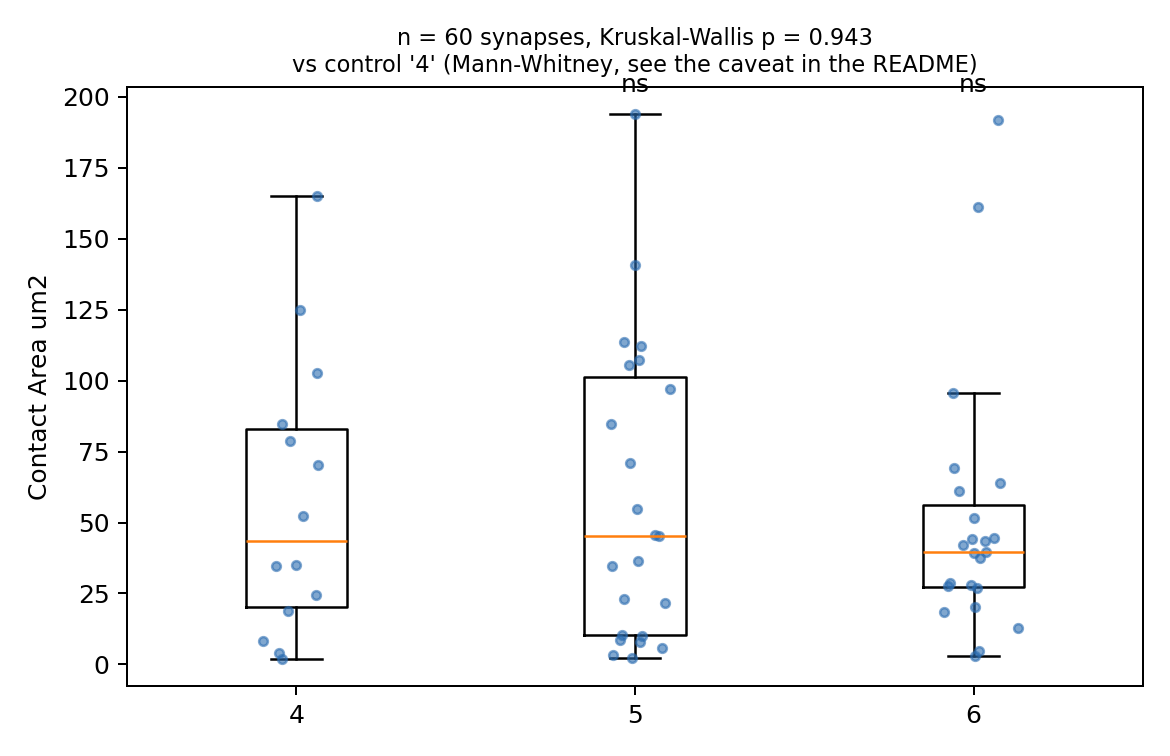
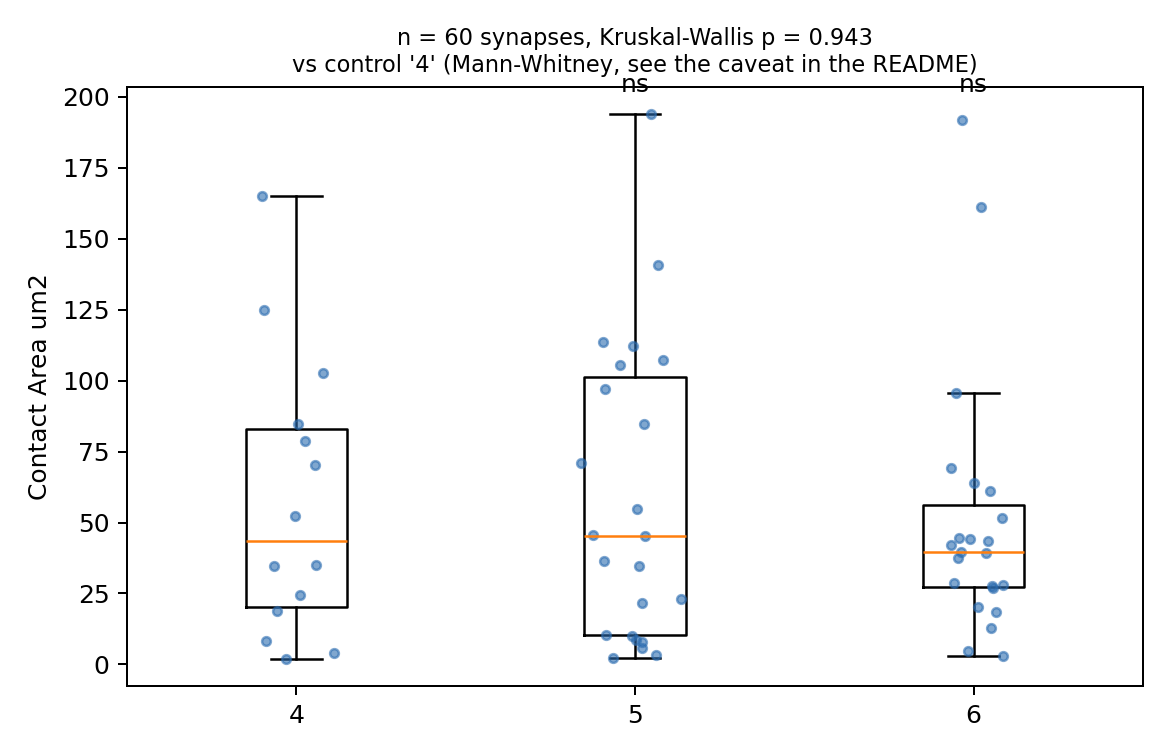
Express the nucleus size cut-off relative to the expected nucleus, and keep it at a noise floor
The cut-off is now a fraction of the volume of a sphere of --nucleus-diameter-um
instead of an absolute 20 um3, so it follows the cell type.

It stays at a floor against single specks (0.075, i.e. 20 um3 for an 8 um
nucleus) rather than becoming a real filter. Dropping everything below 20 % of
the expected volume looked attractive - it halved the spread of nucleus volumes
- but it removed 7 of 60 synapses and raised the largest contact from 194 to
263 um2. Inspecting those objects one by one, they are not debris: some are
nuclei Cellpose drew small, the rest are cells above or below another cell,
overlapping in x and y but five to nine planes apart in z. A cell whose only
seed is dropped is absorbed by its neighbour and their border is then reported
as one large false contact.

README records this, and adds DAPI exposure to what the next acquisition needs.

diff --git a/is_analysis/nuclei.py b/is_analysis/nuclei.py
@@ -9,14 +9,16 @@ Two interchangeable detectors, both returning a 3D label image with one label pe
   seed or gives it several, so the cell it belongs to is merged into its neighbour or cut in two.
   It is kept as the dependency-free fallback.
 
+
 Only the *seeds* matter downstream: the cell body is built from all three channels in
 `segmentation.cell_bodies`, and the nucleus label is used to place and classify the cell. A
 nucleus mask that is a little tight is therefore harmless, a missing or duplicated one is not.
 """
+import math
+
 import numpy as np
 from scipy import ndimage as ndi
 from skimage.filters import threshold_otsu
-from skimage.morphology import remove_small_objects
 from skimage.segmentation import watershed
 
 from .segmentation import ball, smooth
@@ -24,18 +26,40 @@ from .segmentation import ball, smooth
 DIAMETER_UM = 8.0
 SMOOTH_UM = 1.0
 STITCH = 0.25
+MIN_FRACTION = 0.075
 _MODEL = None
 
 
-def segment(dapi, voxel, method="cellpose", min_volume_um3=20.0, min_sep_um=4.0,
+def smallest_kept_um3(diameter_um, fraction):
+    """Volume below which a detected object is thrown away, as a fraction of the volume of a
+    sphere of `diameter_um`, so the cut-off follows the cell type rather than being absolute.
+
+    It defaults to 0.075 - 20 um3 for an 8 um nucleus, a ball of 3.4 um across - which is a floor
+    against single specks of noise and nothing more. A real cut-off does more harm than good on
+    the 2026-06-04 images: a fifth of the detections fall below 0.2 of the expected volume,
+    but checking them one by one they are not debris: some are nuclei Cellpose simply drew a
+    little small, and the rest are cells sitting above or below another cell - their outlines
+    overlap in x and y but they are five to nine planes apart in z, so they are not pieces of
+    one nucleus either. Removing them cost 7 of 60 synapses and *raised* the largest contact
+    from 194 to 263 um2, because a cell whose only seed is gone has no marker left and the
+    watershed hands its body to the neighbour, turning their shared border into a false contact.
+
+    Raise it only for data where small debris really is present, and check the synapse count
+    before and after.
+    """
+    return fraction * math.pi / 6 * diameter_um ** 3
+
+
+def segment(dapi, voxel, method="cellpose", min_fraction=MIN_FRACTION, min_sep_um=4.0,
             diameter_um=DIAMETER_UM, smooth_um=SMOOTH_UM):
     if method == "cellpose":
-        return cellpose_nuclei(dapi, voxel, diameter_um, smooth_um, min_volume_um3)
-    return watershed_nuclei(dapi, voxel, min_volume_um3, min_sep_um)
+        labels = cellpose_nuclei(dapi, voxel, diameter_um, smooth_um)
+    else:
+        labels = watershed_nuclei(dapi, voxel, min_sep_um=min_sep_um)
+    return _renumber(labels, voxel, smallest_kept_um3(diameter_um, min_fraction))
 
 
-def cellpose_nuclei(dapi, voxel, diameter_um=DIAMETER_UM, smooth_um=SMOOTH_UM,
-                    min_volume_um3=20.0, stitch=STITCH):
+def cellpose_nuclei(dapi, voxel, diameter_um=DIAMETER_UM, smooth_um=SMOOTH_UM, stitch=STITCH):
     """Cellpose on a smoothed DAPI stack, 2D per plane, stitched in z.
 
     The raw channel is far too grainy for the model - on these images it finds almost nothing
@@ -48,17 +72,16 @@ def cellpose_nuclei(dapi, voxel, diameter_um=DIAMETER_UM, smooth_um=SMOOTH_UM,
     labels, _, _ = model.eval(smooth(dapi, voxel, smooth_um), channels=[0, 0], z_axis=0,
                               diameter=diameter_um / voxel[2], stitch_threshold=stitch,
                               normalize=True)
-    return _renumber(np.asarray(labels, np.int32), voxel, min_volume_um3)
+    return _renumber(np.asarray(labels, np.int32), voxel)
 
 
-def watershed_nuclei(dapi, voxel, min_volume_um3=20.0, min_sep_um=4.0, sigma_um=0.4):
+def watershed_nuclei(dapi, voxel, min_sep_um=4.0, sigma_um=0.4):
     """Threshold the DAPI channel and split touching nuclei on the distance map."""
     sm = smooth(dapi, voxel, sigma_um)
     mask = ndi.binary_fill_holes(ndi.binary_closing(sm > threshold_otsu(sm), ball(0.5, voxel)))
-    mask = remove_small_objects(mask, int(min_volume_um3 / np.prod(voxel)))
     dist = ndi.distance_transform_edt(mask, sampling=voxel)
     seeds = ndi.label(_peaks(smooth(dist, voxel, min_sep_um / 4), mask, voxel, min_sep_um))[0]
-    return _renumber(watershed(-dist, seeds, mask=mask), voxel, min_volume_um3)
+    return _renumber(watershed(-dist, seeds, mask=mask), voxel)
 
 
 def _cellpose_model():
@@ -83,9 +106,9 @@ def _peaks(dist, mask, voxel, min_sep_um):
         & (dist > 0)
 
 
-def _renumber(labels, voxel, min_volume_um3):
-    """Drop everything below min_volume_um3 and make the remaining labels 1..n."""
-    keep = np.bincount(labels.ravel()) * np.prod(voxel) >= min_volume_um3
+def _renumber(labels, voxel, min_volume_um3=0.0):
+    """Drop anything below min_volume_um3 and make the remaining labels 1..n."""
+    keep = np.bincount(labels.ravel()) * np.prod(voxel) > min_volume_um3
     keep[0] = False
     out = np.zeros(labels.shape, np.int32)
     for new, old in enumerate(np.flatnonzero(keep), start=1):

diff --git a/is_analysis/pipeline.py b/is_analysis/pipeline.py
@@ -30,7 +30,7 @@ def analyse_image(path, out, voxel_override=None, channels=(0, 1, 2), opts=None)
     stack = np.stack([stack[c] for c in channels])
     dapi, gfp, mcherry = stack
 
-    nuclei = nuclei_detection.segment(dapi, voxel, opts["nuclei"], opts["min_nucleus_um3"],
+    nuclei = nuclei_detection.segment(dapi, voxel, opts["nuclei"], opts["min_nucleus_fraction"],
                                       opts["min_separation_um"], opts["nucleus_diameter_um"])
     classes = segmentation.classify(nuclei, gfp, voxel, opts["snr"], opts["gfp_fraction"])
     bodies, cores = segmentation.cell_bodies(nuclei, gfp, mcherry, dapi, voxel, opts["snr"],
@@ -124,7 +124,9 @@ def main(argv=None):
                          "a threshold plus distance watershed, which needs nothing extra")
     ap.add_argument("--nucleus-diameter-um", type=float, default=nuclei_detection.DIAMETER_UM,
                     help="typical nucleus diameter, used by --nuclei cellpose")
-    ap.add_argument("--min-nucleus-um3", type=float, default=20.0, help="smallest accepted nucleus")
+    ap.add_argument("--min-nucleus-fraction", type=float, default=nuclei_detection.MIN_FRACTION,
+                    help="smallest nucleus kept, as a fraction of the volume of a sphere of "
+                         "--nucleus-diameter-um; anything smaller is debris or a fragment")
     ap.add_argument("--min-separation-um", type=float, default=4.0,
                     help="smallest distance between two nuclear centres (--nuclei watershed only);"
                          " raise it if one nucleus is split in two, lower it if two are merged")
@@ -152,7 +154,7 @@ def main(argv=None):
     channels = tuple(int(c) for c in a.channels.split(","))
     voxel = tuple(float(v) for v in a.voxel.split(",")) if a.voxel else None
     opts = {k: getattr(a, k) for k in
-            ("snr", "gfp_fraction", "min_nucleus_um3", "min_separation_um", "nuclei",
+            ("snr", "gfp_fraction", "min_nucleus_fraction", "min_separation_um", "nuclei",
              "nucleus_diameter_um",
              "expand_um", "min_area_um2", "shell_um", "border", "open_um", "split")}
 

diff --git a/README.md b/README.md
@@ -65,6 +65,7 @@ Useful options:
 | `--gfp-fraction` | `0.3` | GFP+ fraction around a nucleus needed to call it a T cell |
 | `--nuclei` | `cellpose` | nucleus detector: `cellpose` (needs the extra install) or `watershed` (no extra dependency, less accurate) |
 | `--nucleus-diameter-um` | `8.0` | typical nucleus diameter. **The parameter to tune first** for `--nuclei cellpose` |
+| `--min-nucleus-fraction` | `0.075` | smallest nucleus kept, as a fraction of the volume of a sphere of `--nucleus-diameter-um`. A floor against single specks of noise; raising it to a real cut-off costs whole cells (see below) |
 | `--min-separation-um` | `4.0` | smallest distance between two nuclear centres, `--nuclei watershed` only |
 | `--split` | `shape` | where the border between two touching cells goes: the waist of their shared footprint (`shape`) or half-way between their nuclei (`nucleus`) |
 | `--open-um` | `0.4` | isolated specks smaller than this are removed from the cell footprint |
@@ -255,6 +256,9 @@ What to do before the next imaging session:
   the median tumour-surface intensity with the median background. Aim for the stained surface at
   **≥ 5× the background SD** — the pipeline reports exactly this number as `mCherry_SNR`, so it
   can be checked on a single test image before committing to a full session;
+- raise the **DAPI** exposure in the same pass. The nuclei are currently so grainy that they have
+  to be smoothed before they can be detected at all, and their measured sizes are not reliable
+  enough to tell a dead cell from a well-segmented one;
 - if that is not reached, titrate the primary antibody and improve the blocking and washing before
   reaching for more laser power — the background here is diffuse antibody, not detector noise, so
   more gain raises signal and background together and `mCherry_SNR` does not improve;
@@ -323,9 +327,22 @@ image/dish as a random effect.
   into a sliver; a duplicated one cuts a cell in half and reports one contact as several. Check
   `segmentation_qc/` for cells with a line drawn through them, or for two cells inside one
   outline, and tune `--nucleus-diameter-um`.
-- **The DAPI channel is grainy** at this photon count. Cellpose finds almost nothing on it raw
-  (5 nuclei in a field of ~25), which is why it is smoothed by 1 µm first. That smoothing is a
-  workaround for the acquisition, not a free parameter to be proud of.
+- **Undersized nuclei cannot be filtered out here.** A fifth of the detections come out below
+  20 % of the expected nucleus volume, and it is tempting to drop them as debris or dead cells.
+  Checked one by one they are not: some are nuclei Cellpose drew a little small, and the rest
+  are cells sitting above or below another cell — their outlines overlap in x and y but they are
+  five to nine planes apart in z. Dropping them cost 7 of 60 synapses and *raised* the largest
+  contact from 194 to 263 µm², because a cell whose only seed is gone has no marker left and the
+  watershed hands its body to its neighbour. `--min-nucleus-fraction` is therefore left at a
+  noise floor. A brighter DAPI exposure would make the nucleus sizes trustworthy enough for a
+  real cut-off.
+- **The DAPI channel is smoothed by 1 µm before Cellpose sees it.** At this photon count the raw
+  channel is grainy enough that the model finds almost nothing on it — 5 nuclei in a field of
+  about 25. Smoothing makes the nuclei recognisable, but it also blurs their real edges, so the
+  nucleus masks come out slightly small and round. That does not affect the contact areas, which
+  are measured on the cell bodies and not on the nuclei, but it does mean the nucleus shapes in
+  `masks/*_nuclei.tif` should not be used as a measurement. A brighter DAPI exposure would remove
+  the need for the smoothing.
 - The raw microscopy files are not tracked in git (~40 MB per image, see `.gitignore`). The
   **analysis output is**: `results/` in this repository is the complete output of the
   2026-06-04 run, so the figures, the ROIs and the table can be read without re-running anything.
